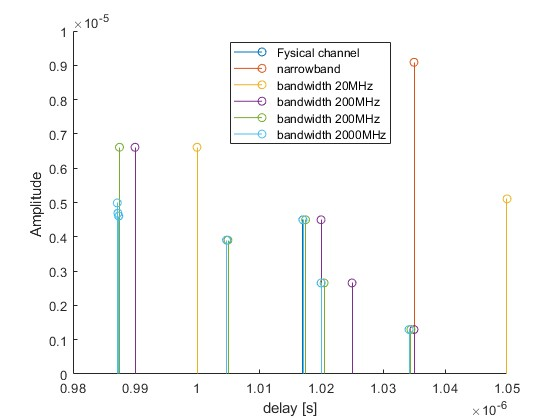
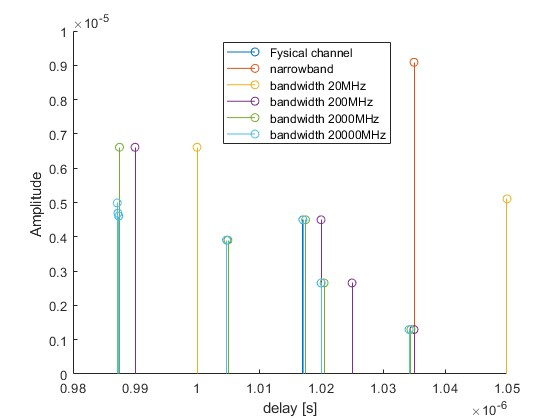
fixed some figures

Changed region(s): [[0.3946, 0.0929, 0.6982, 0.3405]]

diff --git a/main.m b/main.m
@@ -46,8 +46,8 @@ time_resolution = 1/BW; %s
 bs_to_wall_x = log10(10.5:299.5);
 connection_probability = [0.99 0.90 0.80 0.60 0.50];
 
-ray_traced_position = [39.5 ; 4.5];
-impulse_position = [39.5; 4.5]; %point where impulse response will be plotted
+ray_traced_position = [39.5 ; 274.5]; %point where ray trace lines will be plotted
+impulse_position = [39.5; 274.5]; %point where impulse response will be plotted
 
 
 %% draw image
@@ -297,7 +297,7 @@ for a = 1:length(time_resolutions)
     %title('Channel impulse response wideband (Tapped delay line) with time resolution', time_resolution)
 end
 
-legend('Fysical channel', 'narrowband', 'bandwidth '+string(1/time_resolutions(1)/1000000)+'MHz', 'bandwidth '+string(1/time_resolutions(2)/1000000)+'MHz', 'bandwidth '+string(1/time_resolutions(2)/1000000)+'MHz', 'bandwidth '+string(1/time_resolutions(3)/1000000)+'MHz', 'bandwidth '+string(1/time_resolutions(4)/1000000)+'MHz')
+legend('Fysical channel', 'narrowband', 'bandwidth '+string(1/time_resolutions(1)/1000000)+'MHz', 'bandwidth '+string(1/time_resolutions(2)/1000000)+'MHz', 'bandwidth '+string(1/time_resolutions(3)/1000000)+'MHz', 'bandwidth '+string(1/time_resolutions(4)/1000000)+'MHz')
 
 
 %% Link budget
@@ -373,9 +373,9 @@ d_max = ((P_rx_max - b_line(2))./b_line(1)); %log(meter)
 d_max = 10.^d_max; % meter
 
 figure
-plot(connection_probability*100, d_max)
-xlabel('connection probabilty [%]')
-ylabel('Cell range [m]')
+plot(d_max, connection_probability*100)
+ylabel('connection probabilty [%]')
+xlabel('Cell range [m]')
 
 
 
